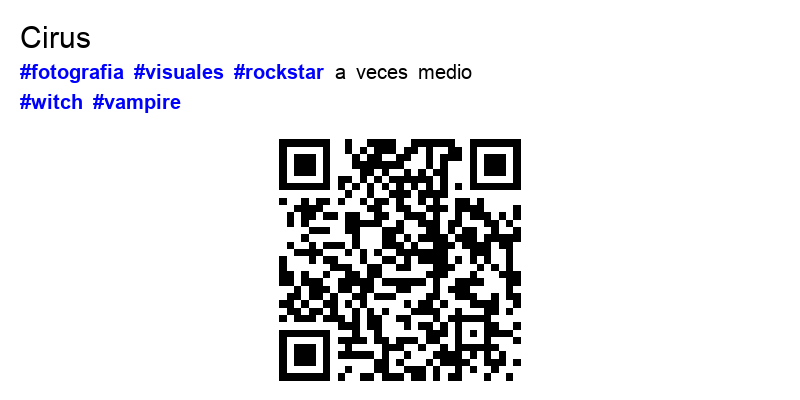
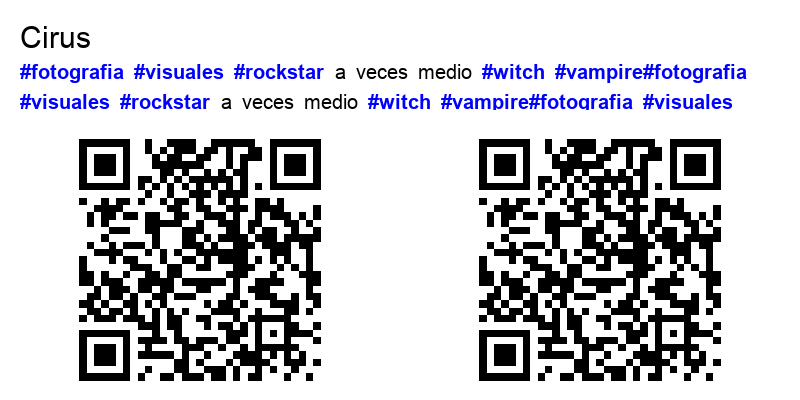
improve

Changed region(s): [[0.0938, 0.33, 0.9062, 0.96], [0.0312, 0.24, 0.9375, 0.3], [0.5938, 0.15, 0.9375, 0.21]]

diff --git a/SIROCO/qr_gen.py b/SIROCO/qr_gen.py
@@ -9,6 +9,7 @@ import re
 # Configuración de márgenes y espaciado
 MARGEN_POR_LINEA = 5  # Ajusta este valor para cambiar el margen extra por cada línea
 TAMANO_TEXTO_GENERO = 20  # Ajusta este valor para cambiar el tamaño del texto de género/disciplina
+CARACTERES_POR_LINEA = 80  # Nueva constante para controlar el número de caracteres por línea
 
 def eliminar_emojis(texto):
     # Usar una expresión regular para eliminar emojis
@@ -82,14 +83,22 @@ def procesar_entrada(row):
     # Eliminar emojis del texto de género/disciplina
     texto = eliminar_emojis(row['#género #disciplina'])
     
-    # Insertar saltos de línea cada 48 caracteres
+    # Insertar saltos de línea cada CARACTERES_POR_LINEA caracteres (máximo 2 líneas)
     lineas = []
-    while len(texto) > 48:
-        corte = texto.rfind(' ', 0, 48)
+    while len(texto) > CARACTERES_POR_LINEA and len(lineas) < 1:
+        corte = texto.rfind(' ', 0, CARACTERES_POR_LINEA)
         if corte == -1:
-            corte = 48
+            corte = CARACTERES_POR_LINEA
         lineas.append(texto[:corte])
         texto = texto[corte:].strip()
+    
+    # Truncar la última línea a CARACTERES_POR_LINEA caracteres si es necesario
+    if len(texto) > CARACTERES_POR_LINEA:
+        corte = texto.rfind(' ', 0, CARACTERES_POR_LINEA)
+        if corte == -1:
+            texto = texto[:CARACTERES_POR_LINEA]
+        else:
+            texto = texto[:corte]
     lineas.append(texto)
     
     x_pos = 20
